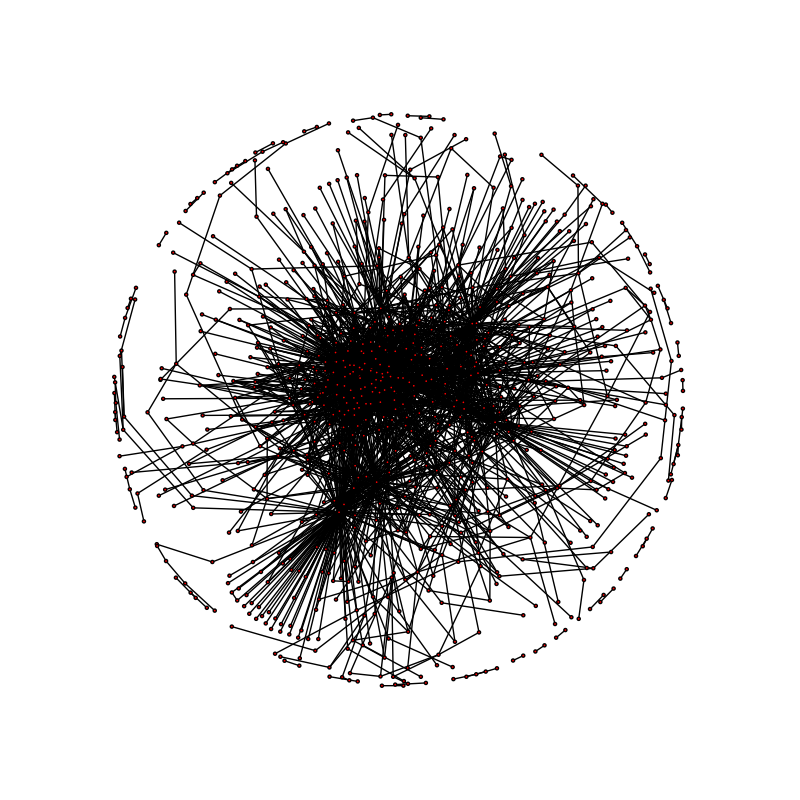
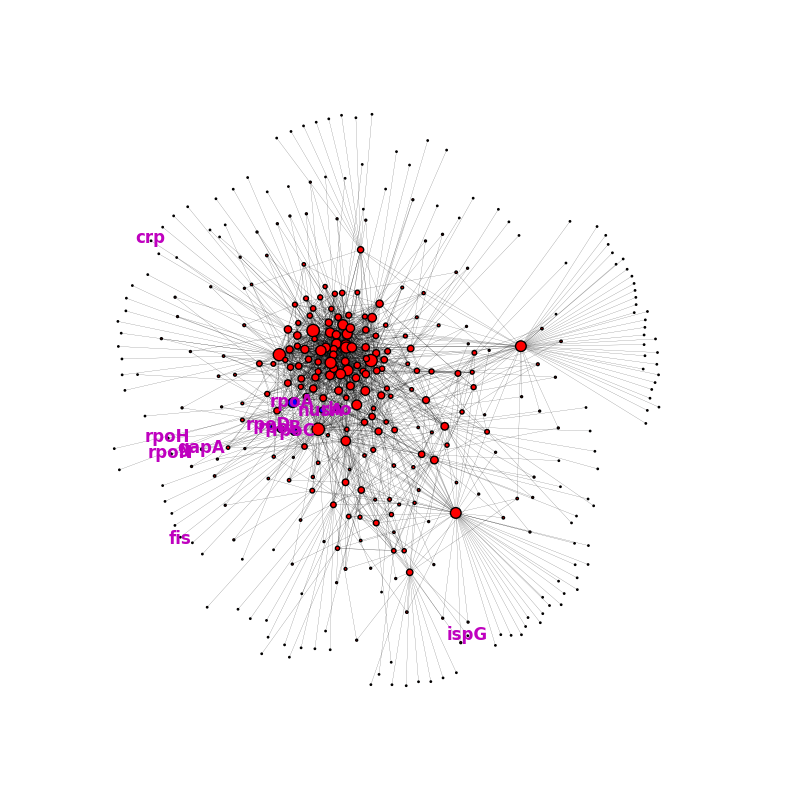
fully functional network visualization tool

Changed region(s): [[0.125, 0.125, 0.875, 0.875], [0.5625, 0.8438, 0.5938, 0.875]]

diff --git a/network_generator.py b/network_generator.py
@@ -4,8 +4,7 @@ What does this do?
 """
 
 import os
-import re
-import sys
+#import sys
 import networkx as nx
 import matplotlib.pyplot as plt
 
@@ -19,84 +18,143 @@ def clean(lines):
 
 def generate_graph(file_name):
 	G = nx.Graph()
-	G.gene = {}
-	G.confidence = {}
-	gene = []
-
-	for line in open(file_name):
+	open_file = open(file_name)
+	for line in open_file:
 		fields = line.split()
 		cleaned = clean(fields)
-		gene1, gene2, confidence = cleaned[1], cleaned[3], cleaned[4]
+		gene1, gene2, value = cleaned[1], cleaned[3], cleaned[4]
 		G.add_node(gene1)
-		G.add_edge(gene1, gene2, weight = float(confidence))
-
+		G.add_edge(gene1, gene2, confidence = float(value))
+	open_file.close()
 	return G
 
 
+def calculate_degree(graph):
+	graph.counts = {}
+	for (node1, node2, edge) in graph.edges(data=True):
+		if node1 in graph.counts:
+			graph.counts[node1] += 1
+		else:
+			graph.counts[node1] = 1
+	for (node1, node2, edge) in graph.edges(data=True):
+		if node2 in graph.counts:
+			graph.counts[node2] += 1
+		else:
+			graph.counts[node2] = 1
+	return graph.counts
 
 
-### file = open("/Users/Andrea/Desktop/CSCI_1310/students.txt", "r")
-### new_file = open("/Users/Andrea/Desktop/CSCI_1310/students_list.txt", "w")
-### for line in file:
-### 	first, last, student_id = line.replace(" ", "").split(",")
-### 	new_file.write('\t'.join((last, first, student_id)))
-### new_file.close()
-### file.close()
+def filter_by_confidence(graph, confidence_threshold):
+	filtered_graph = nx.Graph()
+	for (node1, node2, edge) in graph.edges(data=True):
+		if edge['confidence'] > confidence_threshold:
+			inverse_confidence = float(1/edge['confidence'])
+			filtered_graph.add_edge(node1, node2, length = inverse_confidence)
+		else:
+			pass
+	return filtered_graph
+
+def filter_by_degree(graph, degree_threshold):
+	filtered_graph = nx.Graph()
+	node_degree = calculate_degree(graph)
+	for (node1, node2, edge) in graph.edges(data=True):
+		if node_degree[node1] > degree_threshold:
+			filtered_graph.add_edge(node1, node2, edge)
+		else:
+			pass
+	return filtered_graph
+
+
+def highlight_targets(graph, targets):
+	node_color = {}
+	open_file = open(targets)
+	for line in open_file:
+		fields=line.split()
+		cleaned=clean(fields)
+		for (node1, node2, edge) in graph.edges(data=True):
+			if node1 == cleaned[0]:
+				node_color[node1] = 'b'
+			elif node2 == cleaned[0]:
+				node_color[node2] = 'b'
+			else:
+				pass
+		for (node1, node2, edge) in graph.edges(data=True):
+			if node1 not in node_color:
+				node_color[node1] = 'r'
+			elif node2 not in node_color:
+				node_color[node2] = 'r'
+			else:
+				pass
+	open_file.close()
+	return node_color
+
+def label_by_degree(graph, degree_threshold):
+	node_label = {}
+	node_degree = calculate_degree(graph)
+	for (node1, node2, edge) in graph.edges(data=True):
+		if int(node_degree[node1]) > degree_threshold:
+			node_label[node1] = node1
+		else:
+			node_label[node1] = ''
+		if int(node_degree[node2]) > degree_threshold:
+			node_label[node2] = node2
+		else:
+			node_label[node2] = ''
+	return node_label
+
+def label_by_target(graph, target):
+	node_label = {}
+	open_file = open(target)
+	for line in open_file:
+		fields=line.split()
+		cleaned=clean(fields)
+		for (node1, node2, edge) in graph.edges(data=True):
+			if node1 == cleaned[0]:
+				node_label[node1] = node1
+			elif node2 == cleaned[0]:
+				node_label[node2] = node2
+			else:
+				pass
+		for (node1, node2, edge) in graph.edges(data=True):
+			if node1 not in node_label:
+				node_label[node1] = ''
+			elif node2 not in node_label:
+				node_label[node2] = ''
+			else:
+				pass
+	open_file.close()
+	return node_label
 
 
 def main():
-	G = generate_graph(os.getcwd() + os.sep + 'bacteriome_combined.txt')
-	print("digraph has %d nodes with %d edges" %(nx.number_of_nodes(G), nx.number_of_edges(G)))
-	#nx.draw(G)
-	#plt.draw()
-
-
-	H = nx.Graph()
-	create_list = open(os.getcwd() + os.sep + 'CREATE_genetargets.txt')
-	for line in create_list:
-		fields=line.split()
-		cleaned=clean(fields)
-		for v in G:
-			if cleaned[0] == v:
-				G.gene[v] = 200
-			else:
-				G.gene[v] = 5
-	#print G.gene
-
-	G.counts = {}
-
-	counts = {}
-    for character in text:
-        if character in counts:
-            counts[character] += 1
-        else:
-            counts[character] = 1
-    return(counts)
-
-
-	for v in G:
-		G.counts[v] = 0
-		G.counts[v] += 1
-	print G.counts
-	if G.counts[v] >= 20:
-		H.add_node(v)
-	else:
-		pass
-	for(u,v,d) in G.edges(data=True):
-		if d['weight'] > 0.8:
-			H.add_edge(u,v)
+	bacteriome = os.getcwd() + os.sep + 'bacteriome_combined.txt'
+	create_targets = os.getcwd() + os.sep + 'CREATE_genetargets.txt'
+	
+	G = generate_graph(bacteriome)
+	print("network has %d nodes with %d edges" %(nx.number_of_nodes(G), nx.number_of_edges(G)))
+	G = filter_by_confidence(G, 0.8)
+	print("network has %d nodes with %d edges" %(nx.number_of_nodes(G), nx.number_of_edges(G)))
+	G = filter_by_degree(G, 10)
+	print("network has %d nodes with %d edges" %(nx.number_of_nodes(G), nx.number_of_edges(G)))
+	
+	node_degree = calculate_degree(G)
+	node_color = highlight_targets(G, create_targets)
+	#node_label = label_by_degree(G, 40)
+	node_label = label_by_target(G, create_targets)
 
 	plt.figure(figsize=(8,8))
-	#node_color = [float(H.degree(v)) for v in H]
-	nx.draw(H, 
-		node_size=[G.gene[v] for v in H],
-		with_labels=False)
+	#node_color = [float(G.degree(node)) for node in G]
+	nx.draw(G,
+		node_color=[node_color[node] for node in G], 
+		node_size=[node_degree[node] for node in G],
+		labels=node_label,
+		with_labels=True,
+		font_color='m',
+		font_weight='bold',
+		width=0.1)
 	plt.draw()
 
 	plt.savefig('bla.png')
-
-
-
 
 
 main()
